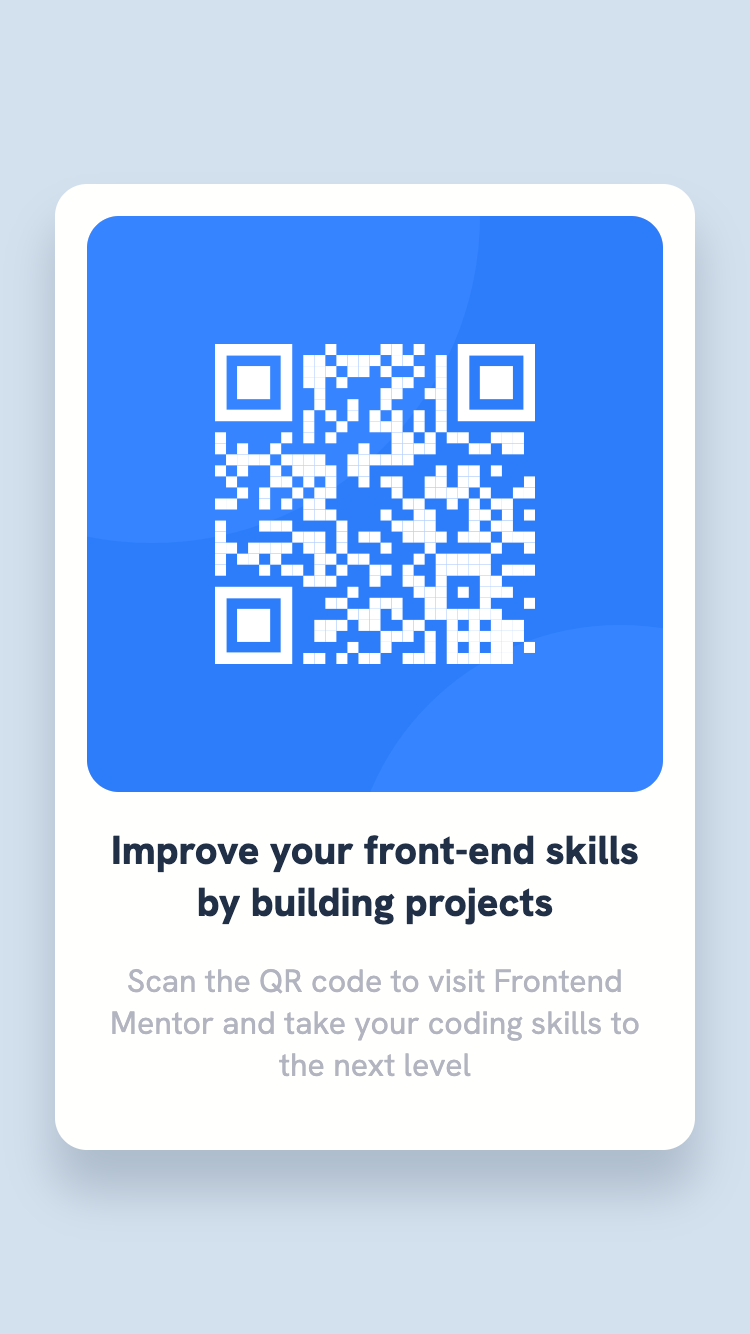
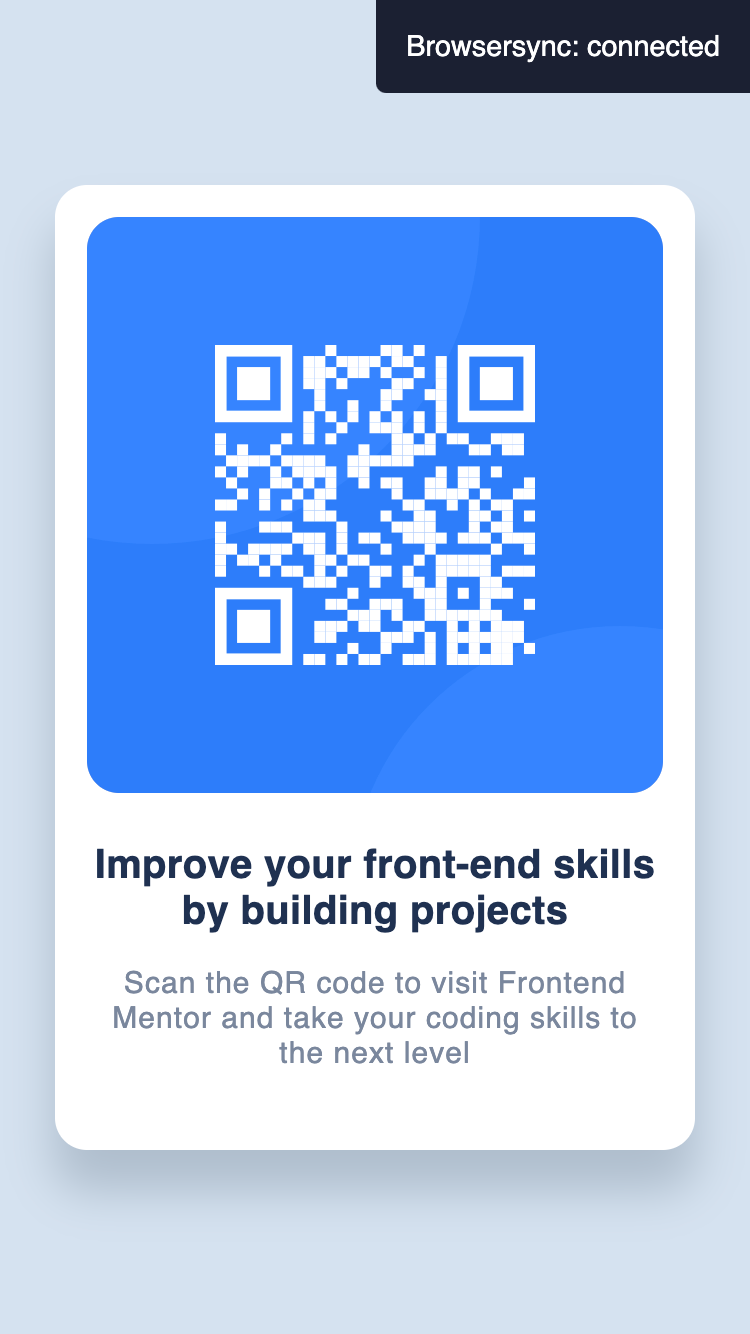
fix solution due to style-guide

diff --git a/css/style.css b/css/style.css
@@ -8,7 +8,7 @@ body {
     display: flex;
     justify-content: center;
     align-items: center;
-    background-color: #D4E0EE;
+    background-color: hsl(212, 45%, 89%);
     min-height: 100vh;
 }
 
@@ -17,7 +17,7 @@ body {
 }
 
 .card {
-    background-color: #FFFFFE;
+    background-color: hsl(0, 0%, 100%);
     padding: 16px;
     text-align: center;
     font-family: 'Hanken Grotesk', sans-serif;
@@ -47,15 +47,18 @@ body {
 }
 
 .text-block {
-    margin-top: 16px;
+    margin-top: 24px;
 }
 
 .text-block h3 {
-    color: #213047;
+    color: hsl(218, 44%, 22%);
     font-size: 20px;
+    letter-spacing: 0.16px;
 }
 
 .text-block p {
-    color: #B2B5C0;
-    margin: 16px 0;
+    color: hsl(220, 15%, 55%);
+    margin: 16px 0 24px;
+    font-size: 15px;
+    letter-spacing: 0.52px;
 }

diff --git a/index.html b/index.html
@@ -10,7 +10,7 @@
     <link rel="preconnect" href="https://fonts.googleapis.com" />
     <link rel="preconnect" href="https://fonts.gstatic.com" crossorigin />
     <link
-      href="https://fonts.googleapis.com/css2?family=Hanken+Grotesk:wght@400;800&display=swap"
+      href="https://fonts.googleapis.com/css2?family=Outfit:wght@400;700&display=swap"
       rel="stylesheet"
     />
 
